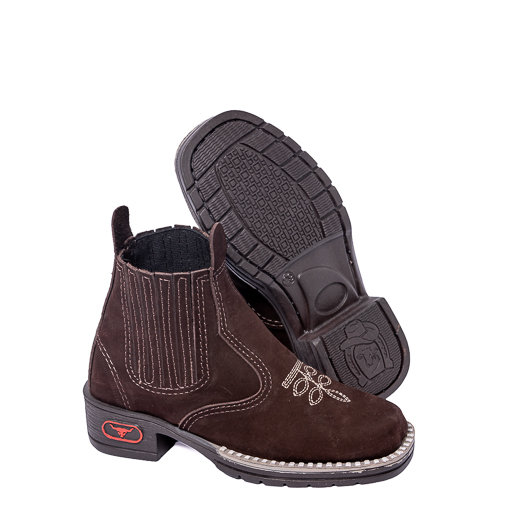
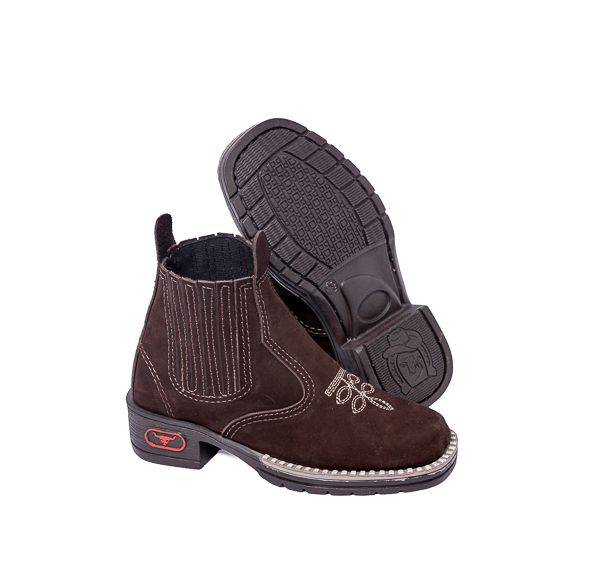
feat: update model 7010 cover image, single nobuck cafe leather, and exclusive bordado a

Changed region(s): [[0.1515, 0.1818, 0.7879, 0.9394]]

diff --git a/app/Helpers/EmbroideryHelper.php b/app/Helpers/EmbroideryHelper.php
@@ -104,6 +104,18 @@ final class EmbroideryHelper
             ];
         }
 
+        // Modelo 7010: Bordado Padrão A exclusivo
+        if ($code === '7010' || $baseCode === '7010') {
+            return [
+                [
+                    'code' => 'A',
+                    'title' => 'Bordado Padrão A',
+                    'subtitle' => 'Desenho decorativo bordado no cano',
+                    'image_url' => asset('images/embroidery/7010-bordado-a.webp'),
+                ],
+            ];
+        }
+
         // Modelos infantis texanos (6002 e 6003)
         if (in_array($code, self::$infantilTexanaModels, true) || in_array($baseCode, self::$infantilTexanaModels, true)) {
             return [

diff --git a/app/Console/Commands/SyncProductVariations.php b/app/Console/Commands/SyncProductVariations.php
@@ -265,7 +265,7 @@ final class SyncProductVariations extends Command
         ],
         '7010' => [
             'leather' => 'Nobuck',
-            'colors' => ['Café', 'Camel', 'Ferrugem', 'Castor'],
+            'colors' => ['Café'],
         ],
         '7011' => [
             'leather' => 'Sintético',

diff --git a/cadastro-novos-produtos.md b/cadastro-novos-produtos.md
@@ -56,6 +56,7 @@ Mapeamento, ingestão e estruturação dos 7 novos produtos fornecidos na pasta 
 - [x] **Atualização do Modelo 7006:** Título, código e slug normalizados sem o sufixo de variante `/14` (`7006 BOTINA BIDIN RELAX SOLA DE BORRACHA`), e amostra de couro Bidin atualizada com o novo arquivo `7006/bidin.jpg`.
 - [x] **Atualização do Modelo 7012:** Foto da bota substituída pelo novo `7012.jpg`, textura atualizada para `7012 - couro camurça cor caramelo.png` e opções de bordado removidas.
 - [x] **Atualização do Modelo 7007:** Foto da bota substituída por `7007.jpg`, opção de couro configurada exclusivamente para `Nobuck Café` com amostra atualizada de `nobuk café.jpg`, e bordado configurado exclusivamente para `Bordado Padrão B` com a imagem oficial `borbado padrão B.jfif`.
+- [x] **Atualização do Modelo 7010:** Foto da bota substituída por `7010.jpg`, couro configurado exclusivamente para `Nobuck Café`, e bordado configurado exclusivamente para `Bordado Padrão A` com a imagem oficial `bordado padrão a.jfif`.
 
 ---
 
